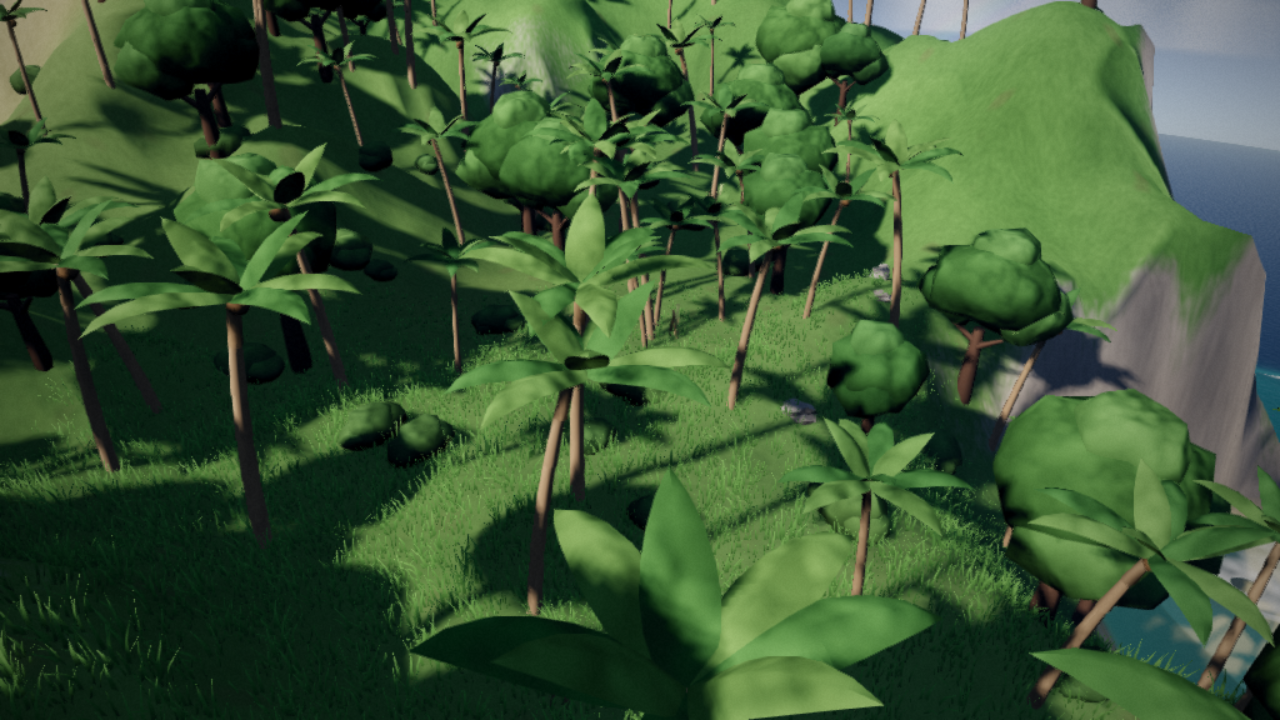
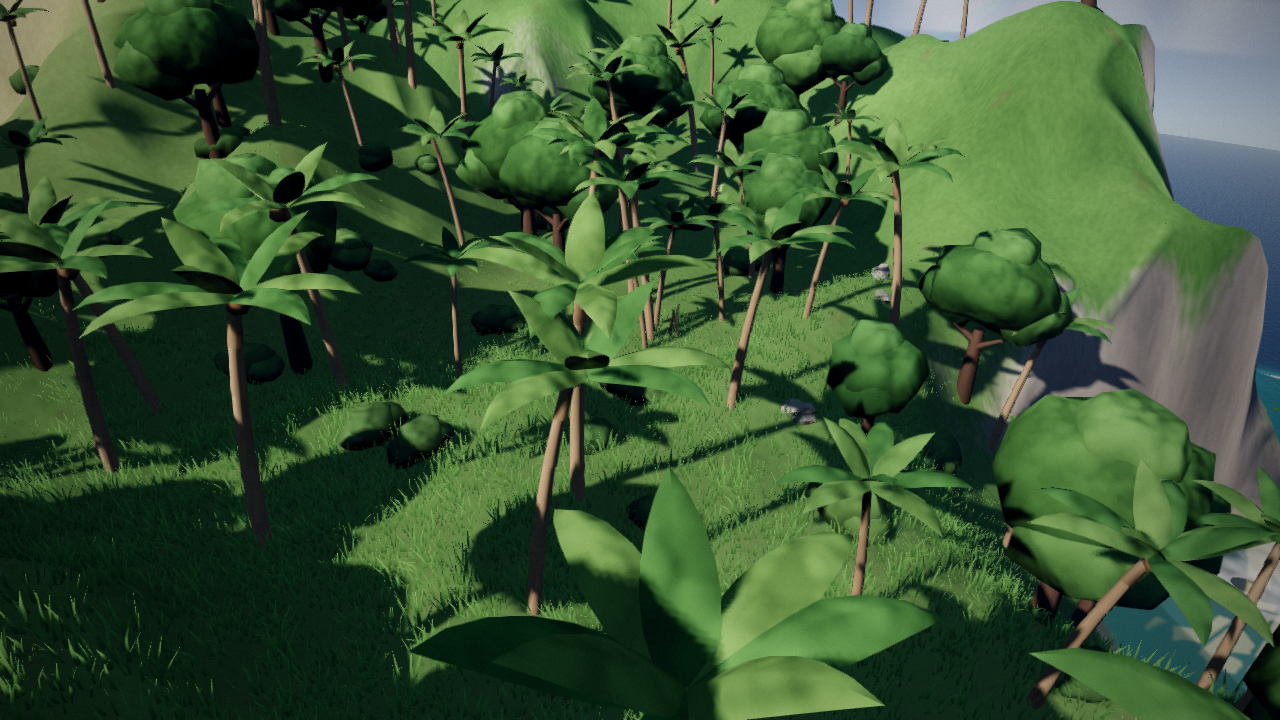
All screenshots re-captured at the pinned High preset; quality log and decision on the degraded captures
Claude-Session: https://claude.ai/code/session_01P1K7jeGpkvrVy88twc6oDA

diff --git a/QUALITY_LOG.md b/QUALITY_LOG.md
@@ -257,6 +257,20 @@ by cropping or by hiding components one at a time; the causes and fixes:
 | Trees bigger than huts | not a defect | a broadleaf crown is 6–10 m and a hut 4–5 m; the loose rocks were the scale breakers and are fixed |
 | Aurora a flat green smear | partly open | the curtains are marched in the atmosphere pass; seen from 1,150 u they lie across the night side — left for the next pass |
 
+### Found after Pass 7: the captures themselves were degraded
+
+Night-sky stars were fat discs in the full screenshot run but pinpoints in every
+isolated render of the same view at the same tick. Bisecting the run order showed the
+cause was state carried between views, not the sky: the saved setting `quality: auto`
+re-enabled the quality governor even when the URL pinned `?quality=high`, and over a
+long software-rendered run the governor stepped the preset down. Every view after the
+first few (fog, wildlife, village, night, storm, volcano and the interface captures)
+was rendered at Medium or Low: lower resolution, fewer grass blades and cloud steps,
+blurred stars. (The village view drew 53 calls in the run against 84 at true High.)
+So Passes 4–7 judged partly degraded images, and the renderer benchmark's presets were
+not what they claimed. A preset named in the URL now pins the session; all screenshots
+and the benchmark are re-captured.
+
 ## Delight pass
 
 Small touches nobody asked for, each verified in a screenshot or in play:

diff --git a/DECISIONS.md b/DECISIONS.md
@@ -212,3 +212,7 @@ Each entry: decision — why.
     relief in world space; rocks and buildings keep their facets. The flat-shaded
     crowns read as toys beside the softly lit globe, the reviewers' main objection;
     crisp facets stay where real things are faceted.
+61. **A URL quality preset is a pin.** `?quality=` fixes the preset for the session and
+    turns the governor off; saved settings apply only when the URL names none. The
+    harness depends on it: with the governor live, long software-rendered runs were
+    silently stepped down and screenshots and benchmarks did not show what they claimed.
